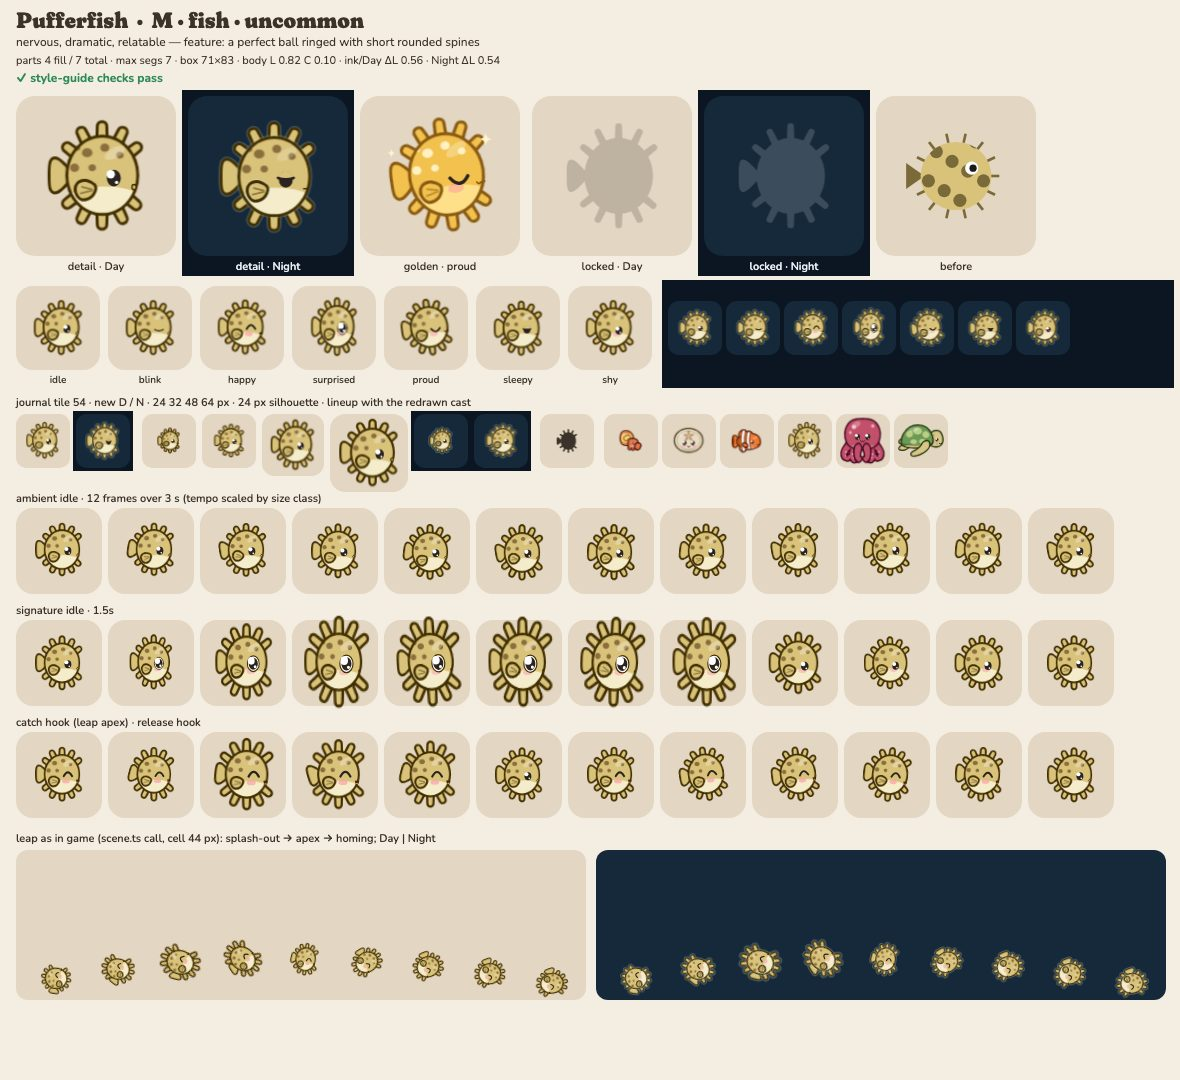
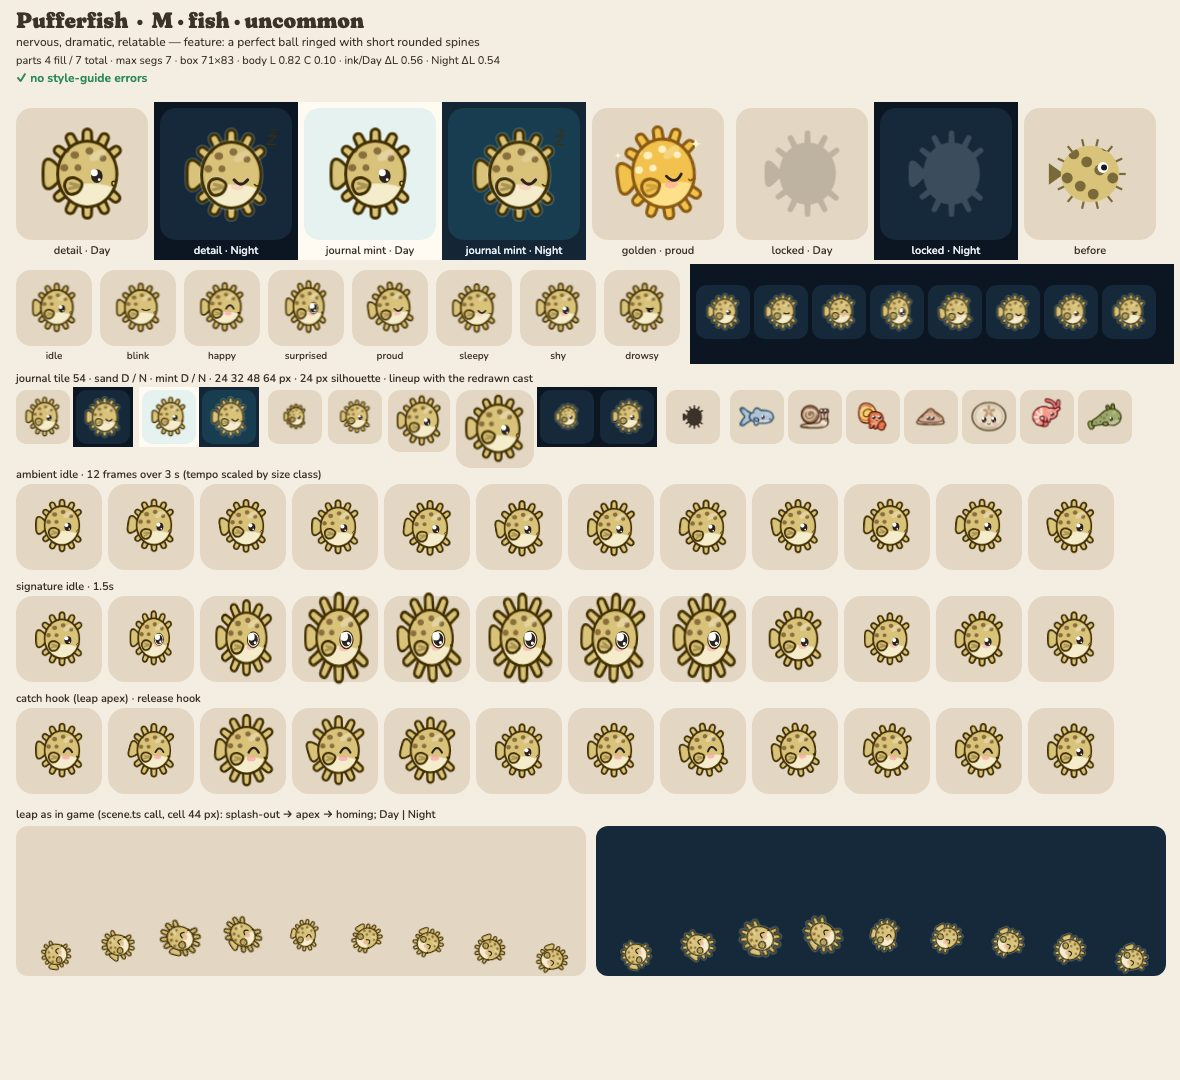
art: puffer lint fixes (spots >= 6 u, soft fin rays) (ADR 0011)

diff --git a/src/render/art/species/puffer.ts b/src/render/art/species/puffer.ts
@@ -42,11 +42,11 @@ const finRays = 'M-4 11L-12 9M-4 12L-13 14';
 // brown spots on the back only (hand placed, R18)
 const spots = join(
   ellipse(-8, -18, 4.2, 3.6),
-  ellipse(6, -22, 3.6, 3.2),
-  ellipse(-18, -6, 3.6, 3.4),
-  ellipse(18, -16, 3, 2.8),
-  ellipse(-4, -6, 3, 2.8),
-  ellipse(-16, -22, 2.6, 2.4),
+  ellipse(6, -22, 3.8, 3.4),
+  ellipse(-18, -6, 3.8, 3.5),
+  ellipse(19, -15, 3.4, 3.2),
+  ellipse(-5, -6, 3.4, 3.2),
+  ellipse(-16, -23, 3.3, 3.1),
 );
 
 export default defineArt({
@@ -73,7 +73,7 @@ export default defineArt({
       pivot: [-2, 11],
       parts: [
         { d: pectoral, role: 'body' },
-        { d: finRays, role: 'ink', kind: 'line', w: 1.4, alpha: 0.5 },
+        { d: finRays, role: 'ink', kind: 'line', w: 3, alpha: 0.3 },
       ],
     },
   ],

diff --git a/docs/art/notes/fleet-2.md b/docs/art/notes/fleet-2.md
@@ -211,3 +211,10 @@ Worst same-class pair overall among mine: clownfish/sunfish 0.684 and limpet/nau
 - New closest pairs: hermit 0.70, combjelly 0.68 (cross-class, limit 0.80), cockle 0.66 (same class,
   limit 0.70); cuttle dropped out of the top list. Every fish is ≤ 0.65 against it.
 - Self-grade stays B+: it reads as a little nautilus peering down, and the coil stripes still lead.
+
+# Redo round (after CRITIQUE-1 and the kit pass)
+
+## puffer (graded A, lint only)
+- R18W: the six spots are now all ≥ 6.4 units across (the two smallest were 5–5.8).
+- R2L: the pectoral fin rays are 3-unit lines at 30 % alpha (soft detail; they were 1.4 u).
+- Lint clean; silhouette unchanged (closest: combjelly 0.73 cross-class, clownfish 0.68 same class).
